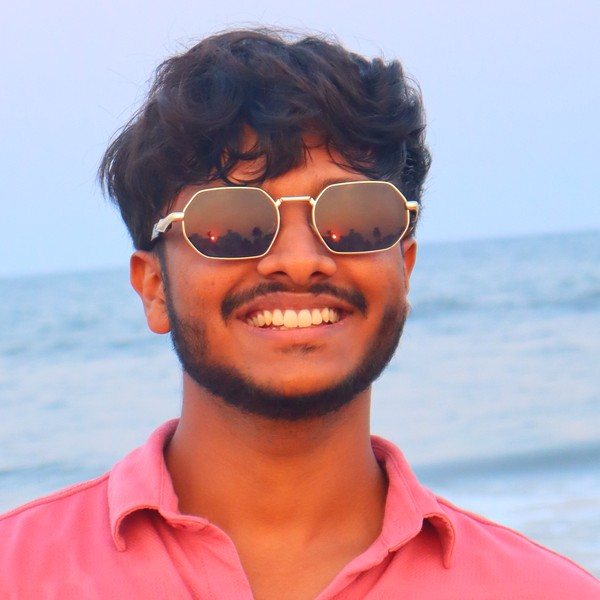
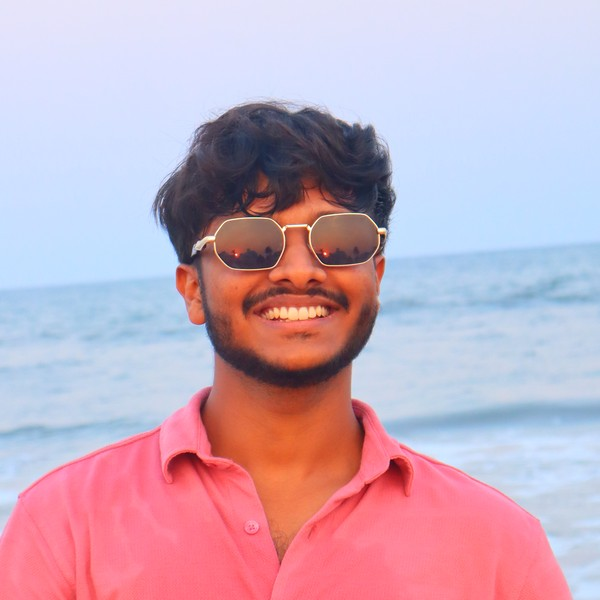
Rebalance three photo crops, snap the bar's fade instead of lingering
Harshitha R's card was still a distant full-body shot; zoomed in from
the original source. Kaamesh KC's and Shree Kowsik's new photos were
cropped too tight in the previous commit; backed both off to a more
normal headshot framing that still shows some shoulders/context.

The journey bar's fade-out ran over 160px of scroll after the last
event's content had already passed, which read as it lingering into
the section that follows rather than leaving with the events it
belongs to. Matched it to the 40px `arriving` fade instead, so it
disappears right as the last event's board does.

diff --git a/src/pages/home/components/JourneyBar.tsx b/src/pages/home/components/JourneyBar.tsx
@@ -216,11 +216,13 @@ export function JourneyBar({
        *
        * The dock's sticky container ends at the last board's bottom edge, so
        * `region.bottom` is exactly how far that edge still is from the top of
-       * the screen: 160px of it left and the bar is at full strength, none of
-       * it and the bar is not there at all. Which means it is never once on
-       * screen over the section that follows.
+       * the screen. Matched to `arriving`'s own 40px rather than a slower
+       * fade: at 160 the bar was still visibly present for a stretch of
+       * scroll after the last event's content had already passed, which read
+       * as it lingering into the section that follows rather than leaving
+       * with the events it belongs to.
        */
-      const leaving = clamp01(region.bottom / 160);
+      const leaving = clamp01(region.bottom / 40);
       bar.style.opacity = `${Math.min(arriving, leaving)}`;
       // 16px closed, 8px open. Both captures of the reference carry it: the
       // small bar is `border-radius: 16px` and the docked one 8px, so the
